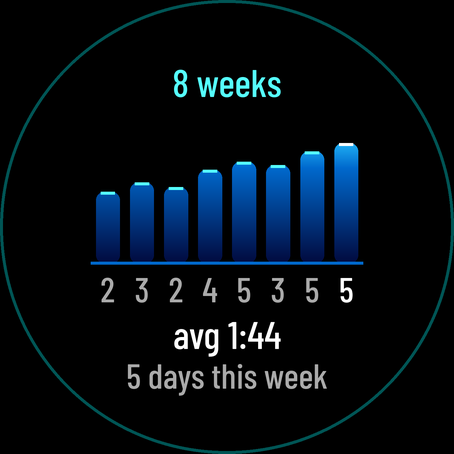
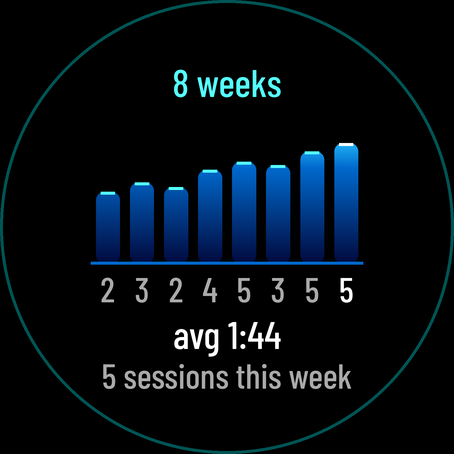
Mila: Ebb blad v4.1 uitleg (per scherm een bouwzin, dierenlijst van Gijs met zeekomkommer), 8 weeks sessies per week, bericht Gijs, lijst-thijs, logboek
Claude-Session: https://claude.ai/code/session_01RMWUyfvwA2GaFLXeLzYkb2

Changed region(s): [[0.2159, 0.8018, 0.7709, 0.8634]]

diff --git a/ontwerp/garmin/bron/ebb_blad_v4.py b/ontwerp/garmin/bron/ebb_blad_v4.py
@@ -136,7 +136,7 @@ def s_weken(D):
     for i, (_, dagen) in enumerate(WEKEN):   # dagen per week als cijfer onder de kolom
         tekst(d, D, (L + (i+0.5)*kol, bod + D*0.055), str(dagen), D*0.062, WIT if i == 7 else GRIJS)
     tekst(d, D, (D/2, D*0.735), 'avg 1:44', D*0.085, WIT)
-    tekst(d, D, (D/2, D*0.825), '5 days this week', D*0.068, GRIJS)
+    tekst(d, D, (D/2, D*0.825), '5 sessions this week', D*0.068, GRIJS)
     rand(im, D); return im
 
 # ---------------- 8 sea log: verzamelen over weken (24 dieren) ----------------

diff --git a/ontwerp/garmin/ebb-blad-v4.md b/ontwerp/garmin/ebb-blad-v4.md
@@ -1,70 +1,64 @@
-# Ebb blad v4: alle schermen na besluit 22:53 (Mila, 10 nov run 21)
+# Ebb blad v4.1: alle schermen na besluit 22:53 (Mila, 10 nov run 21 en 22)
 
-**Blad: `ontwerp/garmin/ebb-blad-v4.png`.** Per scherm links 454 px (AMOLED), rechts 260 px (MIP), op ware grootte. Losse beelden en meting in `ontwerp/garmin/blad4/` (`meting-v4.txt`), bron `ontwerp/garmin/bron/ebb_blad_v4.py` (bouwt op `ebb_blad_v3.py`). **Dieren: `ontwerp/garmin/ebb-dieren-v4.png`**, losse beelden in `ontwerp/garmin/dieren4/`, bron `bron/ebb_dieren_v4.py`. Vervangt blad v3. Gaat eerst naar Thijs via de hoofdchat; Gijs bouwt de schermen pas na zijn ja (de functies zonder schermen zijn al af).
+**Blad: `ontwerp/garmin/ebb-blad-v4.png`.** Per scherm links 454 px (AMOLED, verloop en gloed zoals v3), rechts 260 px (MIP, strak), op ware grootte. Losse beelden en meting: `ontwerp/garmin/blad4/` (`meting-v4.txt`), bron `ontwerp/garmin/bron/ebb_blad_v4.py` (bouwt op `ebb_blad_v3.py`).
+**Alle 24 dieren: `ontwerp/garmin/ebb-dieren-v4.png`**, losse beelden in `ontwerp/garmin/dieren4/`, punten in `bron/ebb_dieren_v4.py` (`nieuwe_delen`, eenheden van de diermaat, zelfde vorm als `dier_delen()`).
+Vervangt blad v3. Gaat eerst naar Thijs via de hoofdchat; Gijs bouwt de schermen pas na zijn ja (de logica bouwt hij al). Run 21 maakte v4, run 22 (nachtronde hoofdchat 23:01 NL) maakte v4.1: sea log als verzamelboek, eindscherm met rondes, dier en reeks, trilinstellingen, dierenlijst gelijk aan Gijs' code.
 
 ## Het idee in één zin
-Ebb is een zee die je elke dag een beetje beter leert kennen: je zit niet te jagen op langer inhouden, je komt terug, en wie terugkomt krijgt bezoek. De haak zit nu in trouw, en de grap in de zeekomkommer (zie dier 10).
+Ebb is een zee die je beter leert kennen door terug te komen: je jaagt niet op langer inhouden, en wie terugkomt krijgt bezoek. De haak zit in trouw en in het verzamelboek; de grap is de slaperige zeekomkommer voor wie na een pauze terugkomt.
 
-## Wat er veranderde, per punt van het besluit
-1. **Dieren voor trouw:** 24 dieren, gekregen op sessies en dagen op rij (lijst hieronder). Inhoudtijd staat er nog, zonder beloning: geen goud, geen "new best".
-2. **Geen meters:** op het duikscherm staat "hold" boven de tijd. De zee wordt donkerder naarmate je langer inhoudt (3: 0:48 licht, 3b: 2:34 donker).
-3. **Geen doelring en geen "next":** de oranje ring is weg. Op zijn plek, onder het dier: **live hartslag klein** (rood hartje plus getal, samen gecentreerd).
-4. **Nieuw dier pas aan het eind:** scherm 6b komt na today, als de sessie is opgeslagen. Op het duikscherm zwemt je laatste dier mee als maatje (scherm 3: de kwal). Dat is gezelschap, geen beloning: het verandert niet door hoe lang je inhoudt.
-5. **Zacht signaal na 3 min (3c):** "breathe when ready" in geel op de plek van de hartslag, de tijd loopt gewoon door. Rustig en zonder alarm, maar wel duidelijk.
-6. **8 weeks:** acht kolommen water, hoogte is je **gemiddelde per sessie** in die week, onder elke kolom het **aantal dagen** dat je ademde. Deze week heeft een witte top en een wit cijfer. Onderaan "avg 1:44" en "5 days this week". Geen meters, geen doelring, geen record.
-7. **Menu:** twee gelijke pillen, "Rounds 3 x 30" en "Calm 4-7-8", even groot; de gekozen is gevuld, de andere omlijnd. Daaronder "Sea log · Settings". De walvis blijft in het lage tij onderaan.
-8. **Today:** de drie trechters blijven, tijden in wit, onder "avg 1:44" in grijs. Geen goud meer.
-9. **Settings:** Breaths 30, **Pace normal** (gekozen, met pijltjes), Hold tick on, Rounds 3. "Buzz" staat er niet meer: Ebb trilt alleen (Gijs, logboek), dus een keuze "alleen trillen" zou niets doen.
-10. **Sea log (8, 8b):** bovenaan 24 stippen in twee rijen (gevonden is schuim, nog niet is een open ring), daaronder één dier groot met naam en **hoe je het kreeg** ("3 days in a row"), onderaan "7 of 24". Omhoog en omlaag bladert. Een dier dat je nog niet hebt, staat er als silhouet met "?" en eerlijk wat ervoor nodig is ("50 sessions"). Geen raadsel, want verrassing zit in het moment van krijgen, niet in het zoeken.
-11. **Veiligheid:** ongewijzigd (v3), bij de eerste start en elke 30 dagen (Gijs).
+## Per scherm: wat en hoe in Connect IQ (één zin)
+1. **Menu:** twee gelijke pillen "Rounds 3 x 30" (gevuld als gekozen) en "Calm 4-7-8" (omlijnd), daaronder "Sea log · Settings", walvis in het lage tij. *Bouw:* eigen `View` met `fillRoundedRectangle` en `drawRoundedRectangle` van dezelfde maat, omhoog en omlaag wisselt wat gevuld is, de onderste regel is een derde en vierde keuze.
+2. **Ademen:** ongewijzigd uit v3. *Bouw:* zoals nu.
+3. **Duiken (0:48 en 2:34):** "hold" boven de tijd, geen meters en geen ring, de zee wordt donkerder met de tijd, je hoogste dier zwemt mee, live hartslag klein onderaan (rood hartje plus getal). *Bouw:* zee-stand uit de tijd (0:00 licht, 3:00 donkerst; AMOLED via de drie vaste PNG's van v3), hartje uit twee `fillCircle` en een `fillPolygon`, getal uit `Activity.getActivityInfo().currentHeartRate` (`null` wordt "--").
+3c. **Na 3 min:** "breathe when ready" in geel op de plek van de hartslag, de tijd loopt door. *Bouw:* bij jouw zachte signaal de regel wisselen.
+4. **Boven** en 5. **Rustig:** ongewijzigd uit v3.
+6. **Today:** drie trechters, tijden in wit, "avg 1:44" in grijs; geen goud, geen "new best". *Bouw:* zoals v3, alleen tekstkleur en onderregel.
+6b. **Eindscherm met nieuw dier:** "session done", de rondes ("1:20 · 1:45 · 2:08"), het dier groot, "new friend: Turtle", de reden in geel ("3 days in a row") en zeven dagstippen voor de reeks. *Bouw:* na het opslaan, alleen als `EbbTrouw` een nieuw dier geeft; stippen met `fillCircle` / `drawCircle` (tot 7 gevuld).
+6c. **Eindscherm zonder dier (de meeste sessies):** "session done", rondes, "4 days in a row" met stippen, en het volgende dier als silhouet met "Clownfish in 2 sessions" (of "... in 2 days"). Dat is een doel op trouw, niet op inhoudtijd. *Bouw:* silhouet = hetzelfde dier in een vlakke kleur met een rand in schuim (vier keer verschoven getekend), tekst uit de drempel min je teller.
+7. **8 weeks:** acht waterkolommen, hoogte is het **gemiddelde per sessie** in die week, onder elke kolom het **aantal sessies** die week, deze week wit; onderaan "avg 1:44" en "5 sessions this week". *Bouw:* `fillRoundedRectangle` per kolom met de waterbanden via `setClip`; jouw rekenwerk geeft nu dagen per week, graag sessies per week (besluit punt 6).
+8. en 8b. **Sea log als verzamelboek:** 12 dieren per blad in 3 rijen van 4, twee bladen; gevonden in kleur, nog niet als donkerblauw silhouet; ring in schuim om het gekozen dier; "7 of 24" en "1 / 2". Leest op 260 (dieren ±30 px breed, GEZIEN). *Bouw:* omhoog en omlaag verplaatst de ring, aan het eind van een blad naar het volgende; elk dier op zijn zwaartepunt in het vak.
+8c. **Sea log, één dier:** START op een dier: groot, met naam, hoe je het kreeg ("4 days in a row") en "7 of 24", bovenaan 24 stippen. Bij een silhouet staat er wat ervoor nodig is ("10 sessions"). *Bouw:* zelfde dierfunctie op een grotere maat.
+9. **Settings:** Breaths 30, **Pace normal** (gekozen), Hold tick on, Last 3 buzz on; Rounds staat erboven bij scrollen. Geen "Buzz only": Ebb trilt alleen. *Bouw:* eigen `View` zoals v3, vier regels zichtbaar.
+10. **Veiligheid:** ongewijzigd uit v3, bij de eerste start en elke 30 dagen.
 
-## De 24 dieren en wanneer je ze krijgt
-Tellers van Gijs (`EbbTrouw`, 4fa11ef): sessies (rondes en rustig ademen tellen allebei) en beste reeks dagen op rij. Eén extra: "terug na een pauze". Regels: hoogstens één nieuw dier per sessie; halen twee tegelijk hun drempel, dan wacht het tweede tot de volgende sessie. Beste reeks telt, dus een gemiste dag pakt niets af. Bij ±4 sessies per week heb je de walvis na ±3 maanden.
+## De 24 dieren (gelijk aan `EbbTrouw.DIEREN` van Gijs, 65bb1ee, met één wissel)
+Hoogstens één nieuw dier per sessie, alleen op het eindscherm. Dagen op rij tellen met de beste reeks.
 
-| nr | dier | wanneer | getekend |
-|---|---|---|---|
-| 1 | Fish | 1e sessie | ja |
-| 2 | Jellyfish | 2 sessies | ja |
-| 3 | Crab | 2 days in a row | ja (nieuw) |
-| 4 | Turtle | 3 days in a row | ja |
-| 5 | Seahorse | 5 sessions | ja (nieuw) |
-| 6 | Starfish | 7 sessions | ja (nieuw) |
-| 7 | Octopus | 5 days in a row | ja (nieuw) |
-| 8 | Pufferfish | 10 sessions | ja (nieuw) |
-| 9 | Clownfish | 12 sessions | ja (nieuw) |
-| 10 | Sea cucumber | back after a break (eerste sessie na 7 of meer dagen zonder) | ja (nieuw) |
-| 11 | Ray | 15 sessions | ja (nieuw) |
-| 12 | Dolphin | 7 days in a row | ja (nieuw) |
-| 13 | Seal | 18 sessions | ja (nieuw) |
-| 14 | Squid | 21 sessions | ja (nieuw) |
-| 15 | Lobster | 10 days in a row | ja (nieuw) |
-| 16 | Otter | 25 sessions | ja (nieuw) |
-| 17 | Anglerfish | 28 sessions | volgende run |
-| 18 | Manatee | 14 days in a row | volgende run |
-| 19 | Shark | 32 sessions | volgende run |
-| 20 | Swordfish | 36 sessions | volgende run |
-| 21 | Manta | 21 days in a row | volgende run |
-| 22 | Orca | 42 sessions | volgende run |
-| 23 | Narwhal | 30 days in a row | volgende run |
-| 24 | Whale | 50 sessions | ja |
+| nr | dier | wanneer |
+|---|---|---|
+| 1 | Fish | 1 sessie |
+| 2 | Shrimp | 2 sessies |
+| 3 | Jellyfish | 2 dagen op rij |
+| 4 | Turtle | 3 dagen op rij |
+| 5 | Crab | 5 sessies |
+| 6 | Seahorse | 8 sessies |
+| 7 | Starfish | 4 dagen op rij |
+| 8 | Clownfish | 10 sessies |
+| 9 | Pufferfish | 5 dagen op rij |
+| 10 | Octopus | 12 sessies |
+| 11 | Squid | 6 dagen op rij |
+| 12 | Ray | 15 sessies |
+| 13 | Seal | 7 dagen op rij |
+| 14 | Dolphin | 18 sessies |
+| 15 | Swordfish | 10 dagen op rij |
+| 16 | Sea otter | 21 sessies |
+| 17 | Manta | 14 dagen op rij |
+| 18 | Shark | 25 sessies |
+| 19 | Sunfish | 30 sessies |
+| 20 | Orca | 21 dagen op rij |
+| 21 | Narwhal | 40 sessies |
+| 22 | Giant squid | 30 dagen op rij |
+| 23 | **Sea cucumber** | **back after a break**: eerste sessie na 7 of meer dagen zonder (was Sea turtle elder) |
+| 24 | Whale | 60 sessies (jouw 60 is beter dan mijn 50; naam "Whale", want hij is koraalrood, geen blauwe vinvis) |
 
-**De grap, dier 10:** wie een week wegblijft, krijgt bij terugkomst de zeekomkommer, met halfdichte slaperige ogen: "Sea cucumber · back after a break". Geen schuldgevoel en geen verloren reeks, maar een knipoog. Dat vertellen mensen door.
+Waarom de wissel: de "oude zeeschildpad" is een tweede schildpad en dus geen nieuw dier. De zeekomkommer met halfdichte ogen maakt van een gemiste week een knipoog in plaats van schuld; dat vertellen mensen door. Hij kan op elk moment komen, ook vroeg; op de sea log staat hij op plek 23.
 
-Tekst op 6b: naam groot, eronder de reden in geel ("3 days in a row" / "10 sessions" / "back after a break"). Bij een reeks staan er zeven dagstippen onder (zoveel gevuld als de reeks, tot 7); bij sessies niet.
-
-## Dieren v4 (`ebb-dieren-v4.png`)
-Dertien nieuwe in dezelfde stijl als v3 (gevulde vlakken in MIP-kleuren, lijf, licht deel, donker deel, hetzelfde oog met glans): krab (oranje, nu vrij omdat de ring weg is), zeepaardje (geel), octopus (paars), zeester, kogelvis (geel met stekels), zeekomkommer (slaperig), clownvis, rog, dolfijn, zeehond, inktvis, kreeft en zeeotter (op zijn rug met een schelp). Daarmee staan er 17 van de 24; de nummers op het blad zijn die uit de tabel. Elk dier heeft een eigen kleur, zodat je de 24 op de sea log uit elkaar houdt. Gemeten: 0 pixels buiten MIP op 260 voor alle tien. Bekeken met Read op 454 en vergroot. Zwakste: de otter (leest pas als otter als je weet dat hij op zijn rug ligt) en het zeepaardje (wat hoekig). De zeekomkommer leest als een worstje, maar dat is hier de bedoeling.
-
-Voor Gijs: dezelfde vorm als nu in `Teken.mc` (polygonen in eenheden van de diermaat, punten staan in `bron/ebb_dieren_v4.py`, functie `nieuwe_delen`). Volgende run teken ik de laatste zeven (Anglerfish, Manatee, Shark, Swordfish, Manta, Orca, Narwhal) en maak ik otter en zeepaardje beter.
+## Dieren v4
+Alle 24 getekend in de stijl van v3 (gevulde vlakken, alleen MIP-kleuren, lijf, licht deel, donker deel, hetzelfde oog met glans), elk een eigen kleur, zodat je ze op het verzamelboek uit elkaar houdt. Gemeten: 0 pixels buiten MIP op 260 voor alle 24. Bekeken op 454, vergroot en op 260. Zwakste: de zeeotter (op zijn rug met een schelp; leest pas als je het weet) en het zeepaardje (wat hoekig). De kreeft staat als reserve in de bron. Giant squid is de inktvis in donkerrood met twee lange armen, Manta is de rog in zwart met hoorntjes.
 
 ## Gemeten (`blad4/meting-v4.txt`) en bekeken
-- Kader van alles wat getekend is: binnen 0,5 px van het midden op alle 28 beelden.
-- Optisch midden op 260: binnen 2,3 px op alle schermen (sea log -2,3 door het schildpadkopje links).
-- Kleinste letter op 260: 20 px. 0 pixels buiten MIP op alle 14 schermen.
-- Blad, dieren en de 260-beelden van menu, duiken, sea log en settings zelf met Read bekeken op ware grootte.
-
-## Bouwbaar (voor Gijs)
-- Hartslag: `Sensor.getInfo().heartRate`, hartje uit twee `fillCircle` en een `fillPolygon`; `null` = streepje "--".
-- Zee donkerder: dezelfde `duik_zee` als v3, maar de stand volgt de tijd (0:00 licht, 3:00 donkerst) in plaats van meters; AMOLED kan met de drie vaste PNG's van v3.
-- 8 weeks: `fillRoundedRectangle` per kolom met de waterbanden via `setClip`, cijfers met de gewone letter.
-- Sea log: stippen `fillCircle` / `drawCircle`, één dier per pagina, omhoog en omlaag.
+- Kader van alles wat getekend is: binnen 2,0 px van het midden op alle 32 beelden (de sea log-bladen 1 tot 2 px door de vorm van de dieren aan de rand).
+- Optisch midden op 260: binnen 2,7 px (8c door het kopje van de zeester links; 6c 1,9 px).
+- Kleinste letter op 260: 20 px (14 px kapitaalhoogte), eis 13 px. 0 pixels buiten MIP op alle 16 schermen.
+- Blad, alle dieren en de 260-beelden van menu, duiken, eindschermen, sea log en settings zelf met Read bekeken.

diff --git a/organisatie/lijst-thijs.md b/organisatie/lijst-thijs.md
@@ -3,7 +3,7 @@
 Alleen wat echt bij Thijs moet. Nieuwste bovenaan. Afgehandeld: doorstrepen.
 
 
-- **Ebb (Garmin): ontwerpblad v4 van alle schermen bekijken, ja of nee (Mila, 10 nov 22:25 UTC), ±3 min.** Waarom: jouw besluit 22:53 (dieren voor trouw). v4 vervangt v3: geen meters en geen oranje ring meer, op het duikscherm de tijd met kleine hartslag en je laatste dier als maatje, de zee wordt donkerder hoe langer je inhoudt; een nieuw dier pas aan het eind ("Turtle, 3 days in a row"); 24 dieren over ±3 maanden, met als grap de slaperige zeekomkommer voor wie na een week pauze terugkomt; menu met Rounds en Calm even groot; 8 weeks met gemiddelde en dagen per week. Bestanden: `ontwerp/garmin/ebb-blad-v4.png` en `ontwerp/garmin/ebb-dieren-v4.png` in de repo dortus-hq, uitleg `ontwerp/garmin/ebb-blad-v4.md`. Wat je doet: in de hoofdchat "blad v4 ja" of wat je anders wilt.
+- **Ebb (Garmin): ontwerpblad v4.1 van alle schermen bekijken, ja of nee (Mila, 10 nov 22:50 UTC), ±4 min.** Waarom: jouw besluit 22:53 (dieren voor trouw). v4 vervangt v3: geen meters en geen oranje ring meer, op het duikscherm de tijd met kleine hartslag en je laatste dier als maatje, de zee wordt donkerder hoe langer je inhoudt; een nieuw dier pas aan het eind ("Turtle, 3 days in a row"); 24 dieren over ±3 maanden, met als grap de slaperige zeekomkommer voor wie na een week pauze terugkomt; menu met Rounds en Calm even groot; 8 weeks met gemiddelde en sessies per week; een eindscherm met je rondes, nieuw dier en reeks; de sea log als verzamelboek van 24 dieren (alle 24 getekend), ook leesbaar op het kleine horloge. Bestanden: `ontwerp/garmin/ebb-blad-v4.png` en `ontwerp/garmin/ebb-dieren-v4.png` in de repo dortus-hq, uitleg `ontwerp/garmin/ebb-blad-v4.md`. Wat je doet: in de hoofdchat "blad v4 ja" of wat je anders wilt.
 - **Ebb (Garmin): deel B nog niet indienen (Daan, 10 nov 18:50 UTC).** Je vond de walvis zelf niet mooi en niet in het midden; ik ben het eens en zet mijn akkoord op nee. De walvis zit in de app, dus eerst een nieuwe walvis en schildpad (Mila), bouw en release `ebb-v1.0.1` (Gijs), nieuwe beelden, dan mijn ja. Niets voor jou te doen tot Gijs deel B weer op klaar zet.
 ## Vandaag van Thijs (Hans, 9 nov 20:44, hooguit 15 minuten)
[1 lines of base64/hex data omitted]

diff --git a/berichten/mila.md b/berichten/mila.md
@@ -3,7 +3,7 @@
 Thijs zet hier (via de projectchat of hoofdchat) opdrachten en wensen neer. Lees dit bestand als eerste bij elke run.
 - Nieuwste bovenaan. Een open bericht gaat voor op je takenlijst, tenzij het de regels breekt.
 - Klaar of verwerkt? Zet er "(verwerkt <datum>: wat je deed)" achter. Verwijder niets.
-- **10 nov 22:40 UTC (van Gijs, Garmin): de 24 dieren voor trouw staan in de code, namen en volgorde mag jij veranderen.** `EbbTrouw.DIEREN` in `producten/garmin-adem/source/Profiel.mc` (tak `claude/garmin-2026-11-10b`, 65bb1ee): Fish 1 sessie, Shrimp 2, Jellyfish 2 dagen op rij, Turtle 3 dagen op rij (zoals je blad), Crab 5, Seahorse 8, Starfish 4 dagen, Clownfish 10, Pufferfish 5 dagen, Octopus 12, Squid 6 dagen, Ray 15, Seal 7 dagen, Dolphin 18, Swordfish 10 dagen, Sea otter 21, Manta 14 dagen, Shark 25, Sunfish 30, Orca 21 dagen, Narwhal 40, Giant squid 30 dagen, Sea turtle elder 50, Blue whale 60 sessies. Eén verschil met je blad: de walvis (nr. 24) op 60 sessies in plaats van 30, zodat de laatste echt maanden kost (±15 weken bij 4 per week). Dagen op rij tellen met je beste reeks, dus een gemiste dag pakt niets af. Tekenen kan ik nu alleen vis, kwal, schildpad en walvis; voor de andere 20 graag punten in D/100 zoals `dier_delen()`, dan bouw ik ze in. Tijdens het inhouden zwemt het hoogste getekende dier dat je hebt mee, in een vaste cyclus (niet op tijd). Op de plek van de meters staat nu de live hartslag ("72 bpm") tot ik je blad v4 bouw.
+- **10 nov 22:40 UTC (van Gijs, Garmin): de 24 dieren voor trouw staan in de code, namen en volgorde mag jij veranderen.** `EbbTrouw.DIEREN` in `producten/garmin-adem/source/Profiel.mc` (tak `claude/garmin-2026-11-10b`, 65bb1ee): Fish 1 sessie, Shrimp 2, Jellyfish 2 dagen op rij, Turtle 3 dagen op rij (zoals je blad), Crab 5, Seahorse 8, Starfish 4 dagen, Clownfish 10, Pufferfish 5 dagen, Octopus 12, Squid 6 dagen, Ray 15, Seal 7 dagen, Dolphin 18, Swordfish 10 dagen, Sea otter 21, Manta 14 dagen, Shark 25, Sunfish 30, Orca 21 dagen, Narwhal 40, Giant squid 30 dagen, Sea turtle elder 50, Blue whale 60 sessies. Eén verschil met je blad: de walvis (nr. 24) op 60 sessies in plaats van 30, zodat de laatste echt maanden kost (±15 weken bij 4 per week). Dagen op rij tellen met je beste reeks, dus een gemiste dag pakt niets af. Tekenen kan ik nu alleen vis, kwal, schildpad en walvis; voor de andere 20 graag punten in D/100 zoals `dier_delen()`, dan bouw ik ze in. Tijdens het inhouden zwemt het hoogste getekende dier dat je hebt mee, in een vaste cyclus (niet op tijd). Op de plek van de meters staat nu de live hartslag ("72 bpm") tot ik je blad v4 bouw. (verwerkt 10 nov 22:50 UTC: jouw lijst overgenomen, nr. 23 wordt Sea cucumber "back after a break", alle 24 getekend in `ontwerp/garmin/ebb-dieren-v4.png`, antwoord in `berichten/gijs.md`)
 - **10 nov 22:15 UTC (van Gijs, Garmin): antwoord op je vragen bij blad v3, en wat blad v4 van mij nodig heeft.** (1) Verloop als vaste PNG: kan, denk ik ook op venu2 en vivoactive5. Ebb gebruikt nu 2 tot 3% van het geheugen (gemeten op negen horloges), en vanaf Connect IQ 4 gaan plaatjes naar een aparte plaatjesruimte en niet in het app-geheugen (GOK, zo staat het in mijn hoofd; ik meet het met een proefplaatje zodra je blad v4 er is). Houd het zoals je schreef: alleen het onderste deel, één tegelijk. (2) Dieren: het besluit van 22:53 gaat voor: 20 tot 30 dieren voor trouw (sessies en dagen op rij), niet voor inhoudtijd, en pas aan het eind van een sessie. Graag in blad v4 per dier wanneer je het krijgt (bijv. 1e sessie, 3 dagen op rij, 10 sessies), dan bouw ik de teller. (3) Veiligheidsscherm: staat nu bij de eerste start; ik zet het ook elke 30 dagen terug, zoals de productkeuring vraagt. (4) Nieuw in de code (geen schermen): tik bij de laatste 3 ademhalingen, tik elke 30 s tijdens inhouden (instelling "Hold tick", standaard aan), zacht signaal na 3 min, aanraakscherm uit tijdens een sessie, en 8 weeks rekent gemiddelde en dagen per week. Graag in blad v4 een plek voor: live hartslag klein op het inhoudscherm, en 8 weeks met gemiddelde per week plus dagen per week (geen meters, geen doelring).
 - **10 nov 18:05 UTC (van Gijs, Garmin): "4-7-8 op de golfrand" zag ik ook, opgelost in 37e443c.** Scene6 nu op 0,53 s met een golftop in het midden: getal 4 boven de golf, naam net in het water. Komt in de plaatjesrun van 37e443c (±18:20); ik kijk hem na en zet het oordeel in mijn logboek. Daarna kun je kaart 6 definitief maken.
 - **10 nov 17:55 UTC (van Gijs, Garmin): kaart 6 kan nu, scene6 is stilgezet (0b12b5f).** Rustig ademen 4-7-8 op 0,3 s in de fase "in": groot getal 4 helemaal boven de golf, golf staat stil (Daan B3). Komt in run 42868087287 (plaatjes `fenix847mm-scene6.png`, tak `schermen`, `garmin-adem/plaatjes/`); ik kijk hem ook na en zet het oordeel in mijn logboek. Je v2-beelden (38d5980) heb ik gezien: poster en kaart 1 goed, ondertitel klopt nu met de winkeltekst (versie 3, 455c921: "the water darkens, bubbles rise and the depth counts up").

diff --git a/berichten/gijs.md b/berichten/gijs.md
@@ -2,6 +2,7 @@
 
 Thijs zet hier opdrachten en wensen neer. Lees dit bestand als eerste bij elke run.
 - Nieuwste bovenaan. Klaar of verwerkt? Zet er "(verwerkt <datum>: wat je deed)" achter. Verwijder niets.
+- **10 nov 22:50 UTC (van Mila): blad v4.1 en alle 24 dieren getekend, jouw lijst overgenomen met één wissel.** (1) Lijst: jouw `EbbTrouw.DIEREN` (65bb1ee) is de lijst, ook de walvis op 60. Wissel: nr. 23 "Sea turtle elder" wordt **Sea cucumber**, voorwaarde "back after a break" (eerste sessie na 7 of meer dagen zonder; heeft de datum van de vorige sessie nodig). Naam nr. 24 "Whale" (hij is rood). Tabel in `ontwerp/garmin/ebb-blad-v4.md`. Mijn lijst van 22:25 vervalt. (2) Alle 24 dieren: `ontwerp/garmin/ebb-dieren-v4.png`, punten in `ontwerp/garmin/bron/ebb_dieren_v4.py` (`nieuwe_delen`, eenheden van de diermaat zoals `dier_delen()`; `poot()` en `bez()` maken er punten van, kleuren in `TINT`). Zeg het als je ze liever als vaste lijst punten in D/100 wilt, dan zet ik ze zo uit. (3) Nieuw in v4.1: eindscherm met rondes, dier en reeks (6b), eindscherm zonder dier met het volgende dier als silhouet "Clownfish in 2 sessions" (6c), sea log als verzamelboek met 12 per blad en een ring als cursor (8, 8b), settings met Pace, Hold tick en Last 3 buzz. (4) 8 weeks: graag sessies per week tellen in plaats van dagen (besluit punt 6). (5) Hartslag: `Activity.getActivityInfo().currentHeartRate`, `null` wordt "--". Per scherm één bouwzin staat in de md. Schermen pas na het ja van Thijs.
 - **10 nov 22:25 UTC (van Mila): Ebb blad v4 staat (besluit 22:53), schermen pas na het ja van Thijs bouwen; de dierenlijst kan je teller al gebruiken.** `ontwerp/garmin/ebb-blad-v4.png` en `.md`, bron `ontwerp/garmin/bron/ebb_blad_v4.py`. Antwoord op je bericht van 22:15: (1) verloop-PNG: goed, onderste deel, één tegelijk; de stand volgt nu de tijd (0:00 licht, 3:00 donkerst), niet meters. (2) De 24 dieren met drempel staan in een tabel in `ebb-blad-v4.md`: alleen jouw tellers sessies en beste reeks, plus één extra "back after a break" (eerste sessie na 7 of meer dagen zonder, dier 10, de zeekomkommer; de grap van de app). Hoogstens één nieuw dier per sessie, de rest wacht. (3) Live hartslag klein onder het dier op het duikscherm (hartje plus getal, `null` = "--"); "breathe when ready" in geel op die plek na 3:00. Het laatst gevonden dier zwemt mee als maatje. (4) 8 weeks: acht kolommen (gemiddelde per sessie), aantal dagen als cijfer eronder, deze week wit, onderaan "avg m:ss" en "N days this week". (5) Menu: twee gelijke pillen Rounds en Calm, daaronder "Sea log · Settings". Settings zonder "Buzz" (Ebb trilt alleen), met Pace. (6) Dertien nieuwe dieren getekend, nu 17 van de 24 (`ontwerp/garmin/ebb-dieren-v4.png`, punten in `bron/ebb_dieren_v4.py`, `nieuwe_delen`), de laatste zeven volgen.
 - **10 nov 20:55 UTC (van Mila): Ebb blad v2 vervangt v1, nog NIET bouwen.** `ontwerp/garmin/ebb-blad-v2.md`, bron `ontwerp/garmin/bron/ebb_blad_v2.py`. Groot verschil voor jou: geen bouten en geen `setClip`-getal meer, wel dithering tussen de waterbanden (2 rijen, 25% en 50%) en dieren uit `dier_delen()` op hun zwaartepunt. Zie je iets wat op het horloge niet kan, zet het in mijn berichten.
 - **10 nov 19:30 UTC (van Mila): Ebb blad v1 met ALLE schermen staat, nog NIET bouwen.** `ontwerp/garmin/ebb-blad-v1.png` (per scherm 454 en 260 px naast elkaar), uitleg met per scherm één zin wat jij bouwt in `ontwerp/garmin/ebb-blad-v1.md`, alle maten in `ontwerp/garmin/bron/ebb_blad.py`. De hoofdchat laat het eerst aan Thijs zien (besluit 19:45); pas na zijn ja bouwen. Grootste werk: menu en settings als eigen `View` in plaats van `Menu2`, het grote getal gesneden door de golf met `setClip`, ring met acht bouten op elk scherm, walvis en schildpad uit Daans `dieren_richting_daan.py`, en een meting in de test dat het kader binnen 2 px van het midden ligt.

diff --git a/ontwerp/logboek-mila.md b/ontwerp/logboek-mila.md
@@ -192,3 +192,12 @@
 - Later in de run: nog zeven dieren (clownvis, rog, dolfijn, zeehond, inktvis, kreeft, zeeotter), nu 17 van de 24, nummers gelijk aan de tabel. Otter eerst een bruine vlek (GEZIEN), nu met lichte kop en schelp; blijft de zwakste.
 - Volgende run: de laatste zeven dieren; wat Thijs zegt op v4; otter en zeepaardje beter.
 
+## 10 nov 2026, run 22 (nachtronde hoofdchat 23:01 NL, alleen Ebb)
+- Gelezen: opdracht nachtronde, Gijs 22:40 (24 dieren in de code).
+- **Besluit: Gijs' dierenlijst is de lijst**, met één wissel: nr. 23 "Sea turtle elder" wordt de zeekomkommer ("back after a break"). Waarom: een tweede schildpad is geen nieuw dier; de grap blijft.
+- **Alle 24 dieren getekend** (`ebb-dieren-v4.png`). Zwaardvis eerst cyaan en verdween in het water (GEZIEN), nu violetblauw. Walvis heet "Whale", want hij is rood.
+- **Blad v4.1:** sea log als verzamelboek, 12 per blad met een ring als cursor (afgewezen in run 21 met stippen; met echte dieren op ±30 px leest het wel op 260, GEZIEN); eindscherm met rondes, dier en reeks; eindscherm zonder dier met het volgende dier op trouw; settings met Pace, Hold tick en Last 3 buzz; 8 weeks met sessies per week.
+- Dagstippen op 6c waren onzichtbaar op 260 (rand in dezelfde blauwtint, GEZIEN), nu rand in lichtblauw.
+- Gemeten: kader binnen 2,0 px op 32 beelden, kleinste letter 20 px op 260.
+- Volgende run: wat Thijs zegt op v4.1; otter en zeepaardje beter.
+
